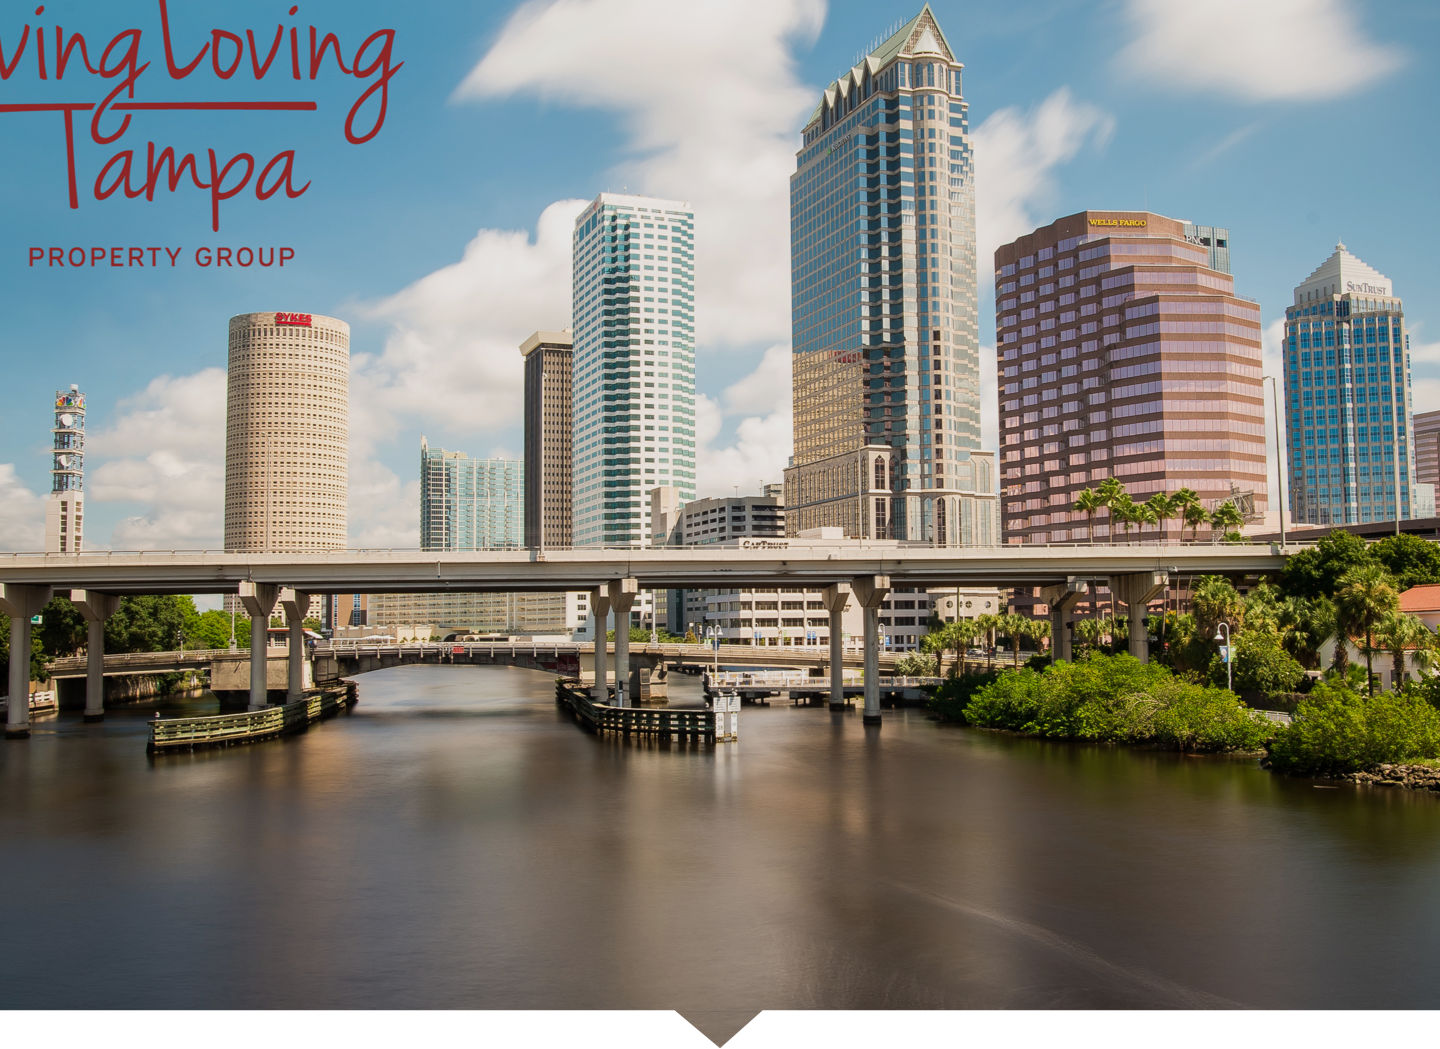
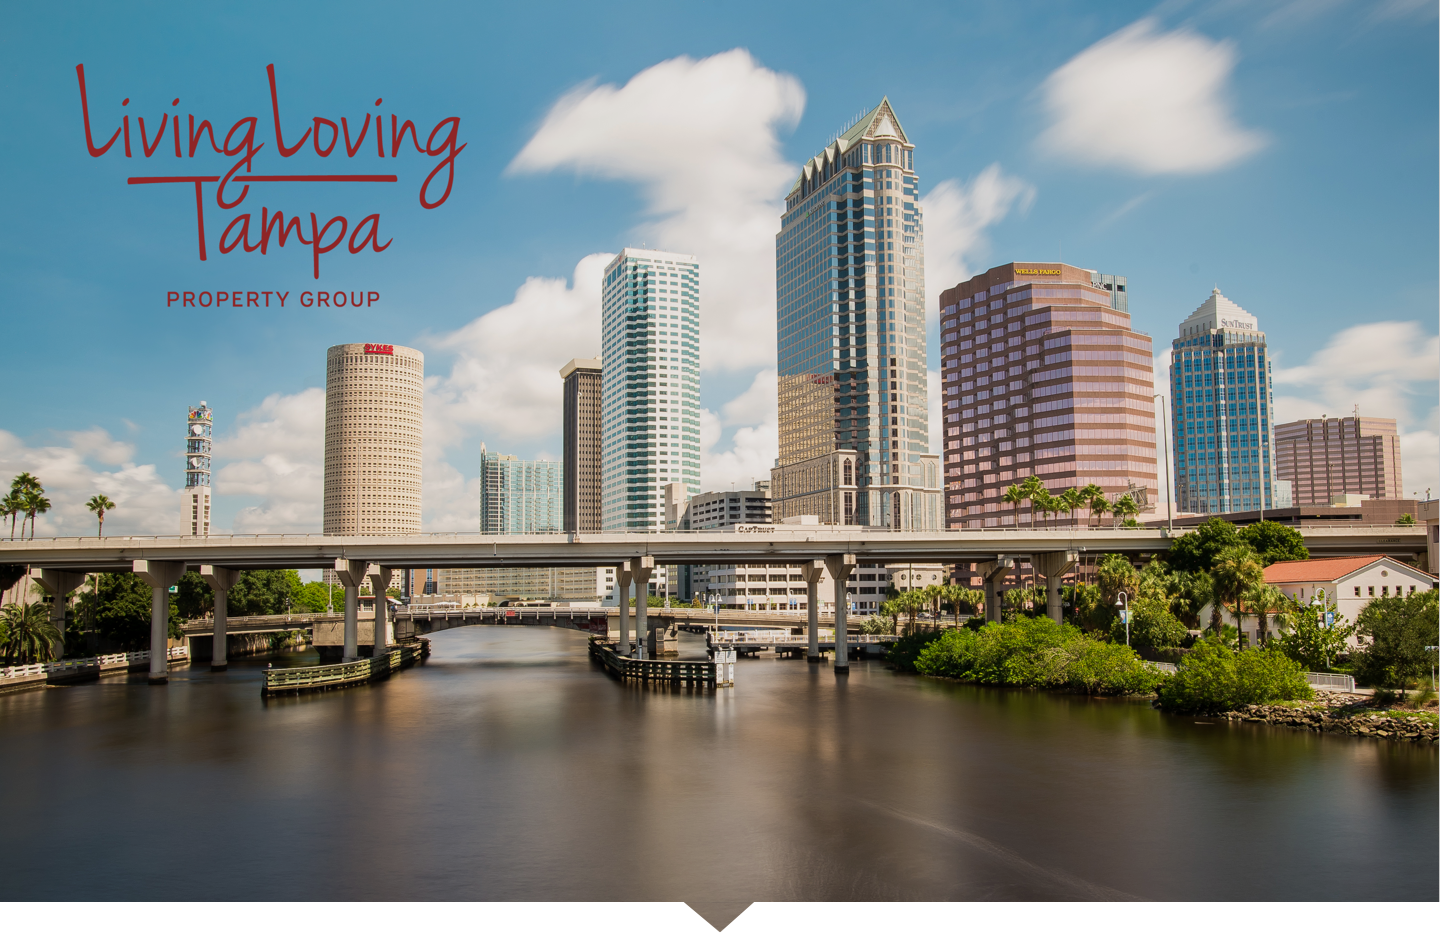
Added images, styled header, etc.

diff --git a/src/components/Splash.vue b/src/components/Splash.vue
@@ -1,39 +1,30 @@
 <template>
   <div class="hello">
-    <img src="../assets/tampa.jpg">
-    <h1>{{ msg }}</h1>
-    <h2>Essential Links</h2>
-    <ul>
-      <li><a href="https://vuejs.org" target="_blank">Core Docs</a></li>
-      <li><a href="https://forum.vuejs.org" target="_blank">Forum</a></li>
-      <li><a href="https://chat.vuejs.org" target="_blank">Community Chat</a></li>
-      <li><a href="https://twitter.com/vuejs" target="_blank">Twitter</a></li>
-      <br>
-      <li><a href="http://vuejs-templates.github.io/webpack/" target="_blank">Docs for This Template</a></li>
-    </ul>
-    <h2>Ecosystem</h2>
-    <ul>
-      <li><a href="http://router.vuejs.org/" target="_blank">vue-router</a></li>
-      <li><a href="http://vuex.vuejs.org/" target="_blank">vuex</a></li>
-      <li><a href="http://vue-loader.vuejs.org/" target="_blank">vue-loader</a></li>
-      <li><a href="https://github.com/vuejs/awesome-vue" target="_blank">awesome-vue</a></li>
-    </ul>
+    <div class="header">
+      <img src="../assets/skyline.png" alt="Living Loving Tampa Splash">
+      <h1>{{ msg }}</h1>
+    </div>
   </div>
 </template>
 
 <script>
 export default {
   name: 'Splash',
-  data () {
+  data() {
     return {
       msg: 'Welcome to Your Vue.js App'
-    }
+    };
   }
-}
+};
 </script>
 
 <!-- Add "scoped" attribute to limit CSS to this component only -->
 <style scoped>
+
+@font-face {
+  font-family: "Inkferno";
+  src: url('../assets/fonts/INKFERNO.otf');
+}
 
 .hello {
   margin: 0;
@@ -46,6 +37,7 @@ img {
 
 h1, h2 {
   font-weight: normal;
+  font-family: 'Inkferno', sans-serif;
 }
 
 ul {
@@ -61,4 +53,9 @@ li {
 a {
   color: #42b983;
 }
+
+
+
+
+
 </style>

diff --git a/src/components/HelloWorld.vue b/src/components/HelloWorld.vue
@@ -1,0 +1,64 @@
+<template>
+  <div class="hello">
+    <img src="../assets/tampa.jpg">
+    <h1>{{ msg }}</h1>
+    <h2>Essential Links</h2>
+    <ul>
+      <li><a href="https://vuejs.org" target="_blank">Core Docs</a></li>
+      <li><a href="https://forum.vuejs.org" target="_blank">Forum</a></li>
+      <li><a href="https://chat.vuejs.org" target="_blank">Community Chat</a></li>
+      <li><a href="https://twitter.com/vuejs" target="_blank">Twitter</a></li>
+      <br>
+      <li><a href="http://vuejs-templates.github.io/webpack/" target="_blank">Docs for This Template</a></li>
+    </ul>
+    <h2>Ecosystem</h2>
+    <ul>
+      <li><a href="http://router.vuejs.org/" target="_blank">vue-router</a></li>
+      <li><a href="http://vuex.vuejs.org/" target="_blank">vuex</a></li>
+      <li><a href="http://vue-loader.vuejs.org/" target="_blank">vue-loader</a></li>
+      <li><a href="https://github.com/vuejs/awesome-vue" target="_blank">awesome-vue</a></li>
+    </ul>
+  </div>
+</template>
+
+<script>
+export default {
+  name: 'HelloWorld',
+  data() {
+    return {
+      msg: 'Welcome to Your Vue.js App'
+    };
+  }
+};
+</script>
+
+<!-- Add "scoped" attribute to limit CSS to this component only -->
+<style scoped>
+
+.hello {
+  margin: 0;
+}
+
+img {
+  width: 100%;
+  height: 100%;
+}
+
+h1, h2 {
+  font-weight: normal;
+}
+
+ul {
+  list-style-type: none;
+  padding: 0;
+}
+
+li {
+  display: inline-block;
+  margin: 0 10px;
+}
+
+a {
+  color: #42b983;
+}
+</style>

diff --git a/src/App.vue b/src/App.vue
@@ -17,6 +17,5 @@ export default {
   -moz-osx-font-smoothing: grayscale;
   text-align: center;
   color: #2c3e50;
-  margin-top: 60px;
 }
 </style>
